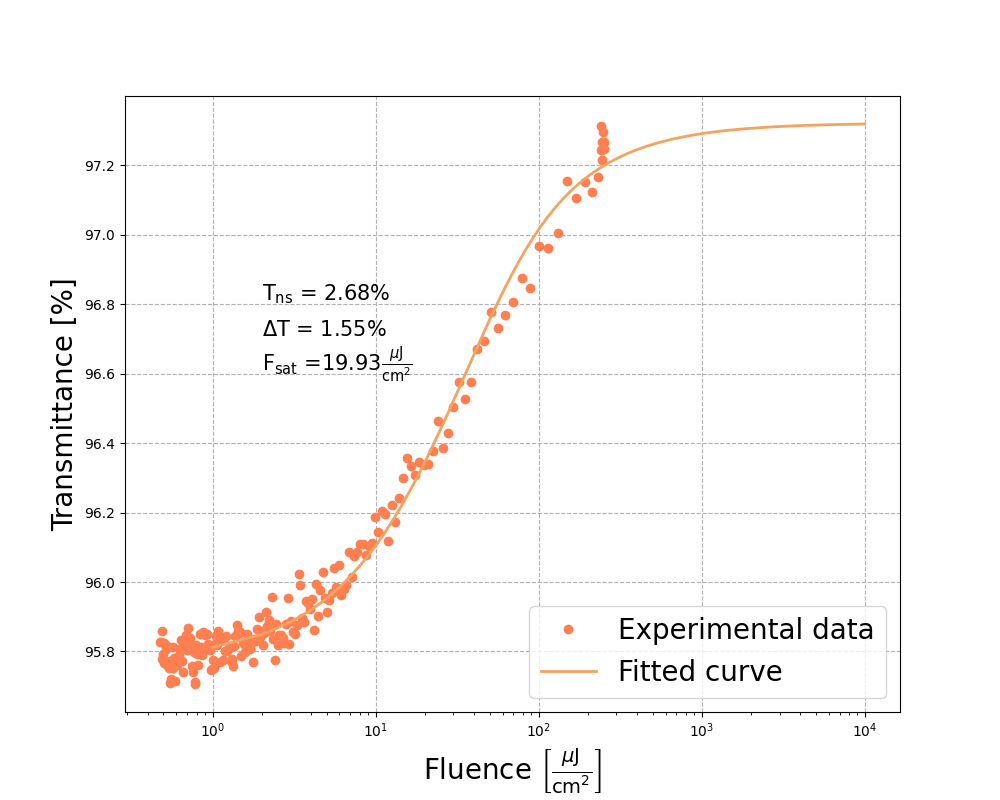
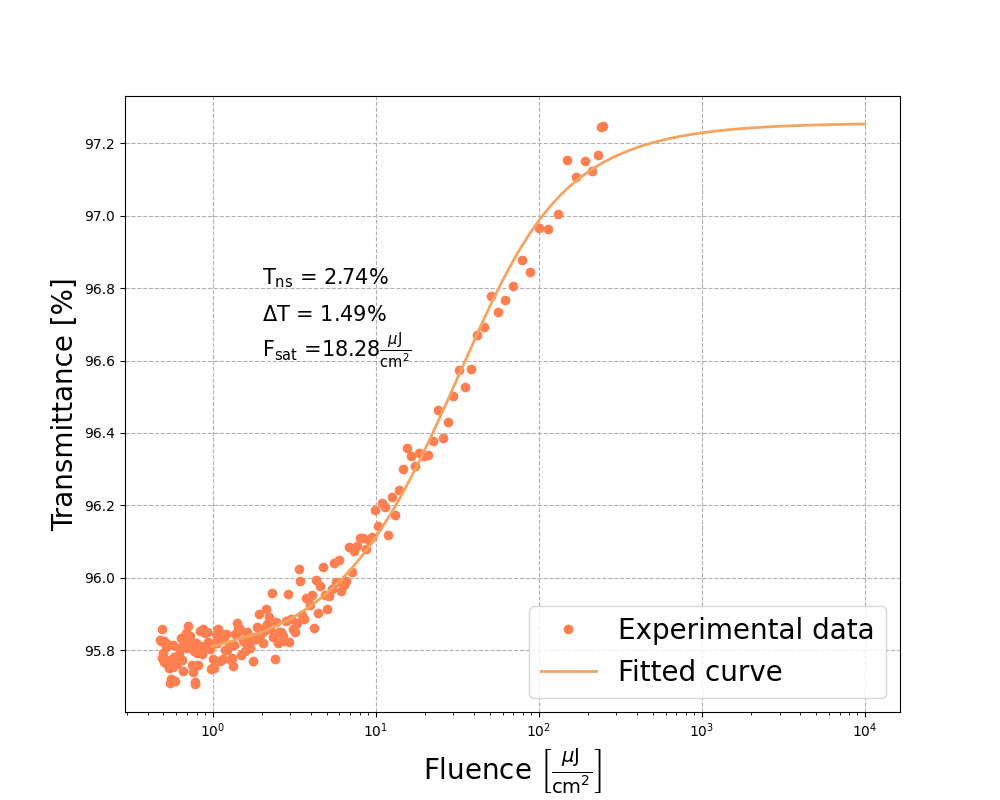
korea

diff --git a/skrypty/transmittance_vs_fluence.py b/skrypty/transmittance_vs_fluence.py
@@ -18,8 +18,7 @@ def d4Sig(z,w0,m2,z0,lam=2300e-9):
 	return np.sqrt(w0**2 + m2**2 * (lam/(np.pi*w0))**2 * (z-z0)**2)
 
 def T_fit(F, T_ns, T_delt, F_sat):#, F_2):
-	return T_ns - (1 - np.exp(-F/F_sat)) * T_delt/(F/F_sat)# - F/F_2
-# T_ns - 
+	return T_ns - (1 - np.exp(-F/F_sat)) * T_delt/(F/F_sat)# - F/F_2 
 
 '''CALIBRATION DATA'''
 save_path = r'C:\Users\gosc\Desktop\Rezonatory2025\Rezonatory2025\wyniki\wyniki_080925'
@@ -89,16 +88,18 @@ fitParams_Y, fitCovariances_Y = optimize.curve_fit(d4Sig, z_cal, d_cal_Y, p0=(14
 # w0_Y -> fitParams_Y[0]
 # M2_Y -> fitParams_Y[1]
 
-# plt.plot(z_cal*1e3, d4Sig(z_cal, fitParams_X[0], fitParams_X[1], fitParams_X[2])*1e6, color = 'orangered', label = 'Dopasowana funkcja')
-# plt.scatter(z_cal*1e3, d_cal_X*1e6, color = 'orange', label='Pomiar kalibracyjny')
-# file_save = 'fit.png'
-# plt.legend()
-# plt.ylabel(r"Szerokość wiązki [$\mu$m]")
-# plt.xlabel("Pozycja [mm]")
-# plt.legend()
-# plt.grid(ls='--')
-# plt.savefig(os.path.join(my_path, file_save))
-# plt.show()
+plt.plot(z_cal*1e3, d4Sig(z_cal, fitParams_X[0], fitParams_X[1], fitParams_X[2])*1e6, color = 'orangered', label = 'Dopasowana funkcja X')
+plt.scatter(z_cal*1e3, d_cal_X*1e6, color = 'orange', label='Pomiar kalibracyjny X')
+plt.plot(z_cal*1e3, d4Sig(z_cal, fitParams_Y[0], fitParams_Y[1], fitParams_Y[2])*1e6, color = 'purple', label = 'Dopasowana funkcja Y')
+plt.scatter(z_cal*1e3, d_cal_Y*1e6, color = 'violet', label='Pomiar kalibracyjny Y')
+file_save = 'fit.png'
+plt.legend()
+plt.ylabel(r"Szerokość wiązki [$\mu$m]")
+plt.xlabel("Pozycja [mm]")
+plt.legend()
+plt.grid(ls='--')
+plt.savefig(os.path.join(my_path, file_save))
+plt.show()
 
 '''FLUENCE CALCULATION'''
 
@@ -117,11 +118,13 @@ F = E/A_eff #uJ/cm2
 
 '''DOUBLE FLUENCE IS NO MORE'''
 # indeks dla ktorego jest max T
-maxT_index = np.argmax(T)
+F_max_index = np.argmax(F)
 
-F_cut = F[:maxT_index+1]
+# maxT_index = np.argmax(T)
 
-T_cut = T[:maxT_index+1]
+F_cut = F[:F_max_index]
+
+T_cut = T[:F_max_index]
 
 
 '''PLOT FITTING'''

diff --git a/skrypty/transmittance_vs_position.py b/skrypty/transmittance_vs_position.py
@@ -4,16 +4,16 @@ import pandas as pd
 import os
 
 # wpisz ścieżkę do katalogu z danymi
-my_path = r'C:\Users\gosc\Desktop\Rezonatory2025\Rezonatory2025\pomiary\pomiary_130825'
-file1 = r'2_grafen_m1_probka_130825.csv'
-file2 = r'1_grafen_m1_probka_130825.csv'
-file3 = r'1_grafen_m1_probka_130825.csv'
-file4 = r'1_grafen_m1_szklo_130825.csv'
+my_path = r'C:\Users\gosc\Desktop\Rezonatory2025\Rezonatory2025\pomiary\pomiary_120825'
+file1 = r'9_probka_120825.csv'
+file2 = r'9_probka_120825.csv'
+file3 = r'9_probka_120825.csv'
+file4 = r'9_szklo_120825.csv'
 
 # nazwa katalogu zapisu
 save_path = r'C:\Users\julia\Desktop\studia\Resonators 2025\Kody\Rezonatory2025\wyniki\wyniki_080925'
 # wpisz nazwę pliku do zapisu wykresus
-file_save = r'kroki_plot.png'
+file_save = r'grafen_m1_plot.png'
 
 data1 = pd.read_csv(os.path.join(my_path, file1))
 data2 = pd.read_csv(os.path.join(my_path, file2))
